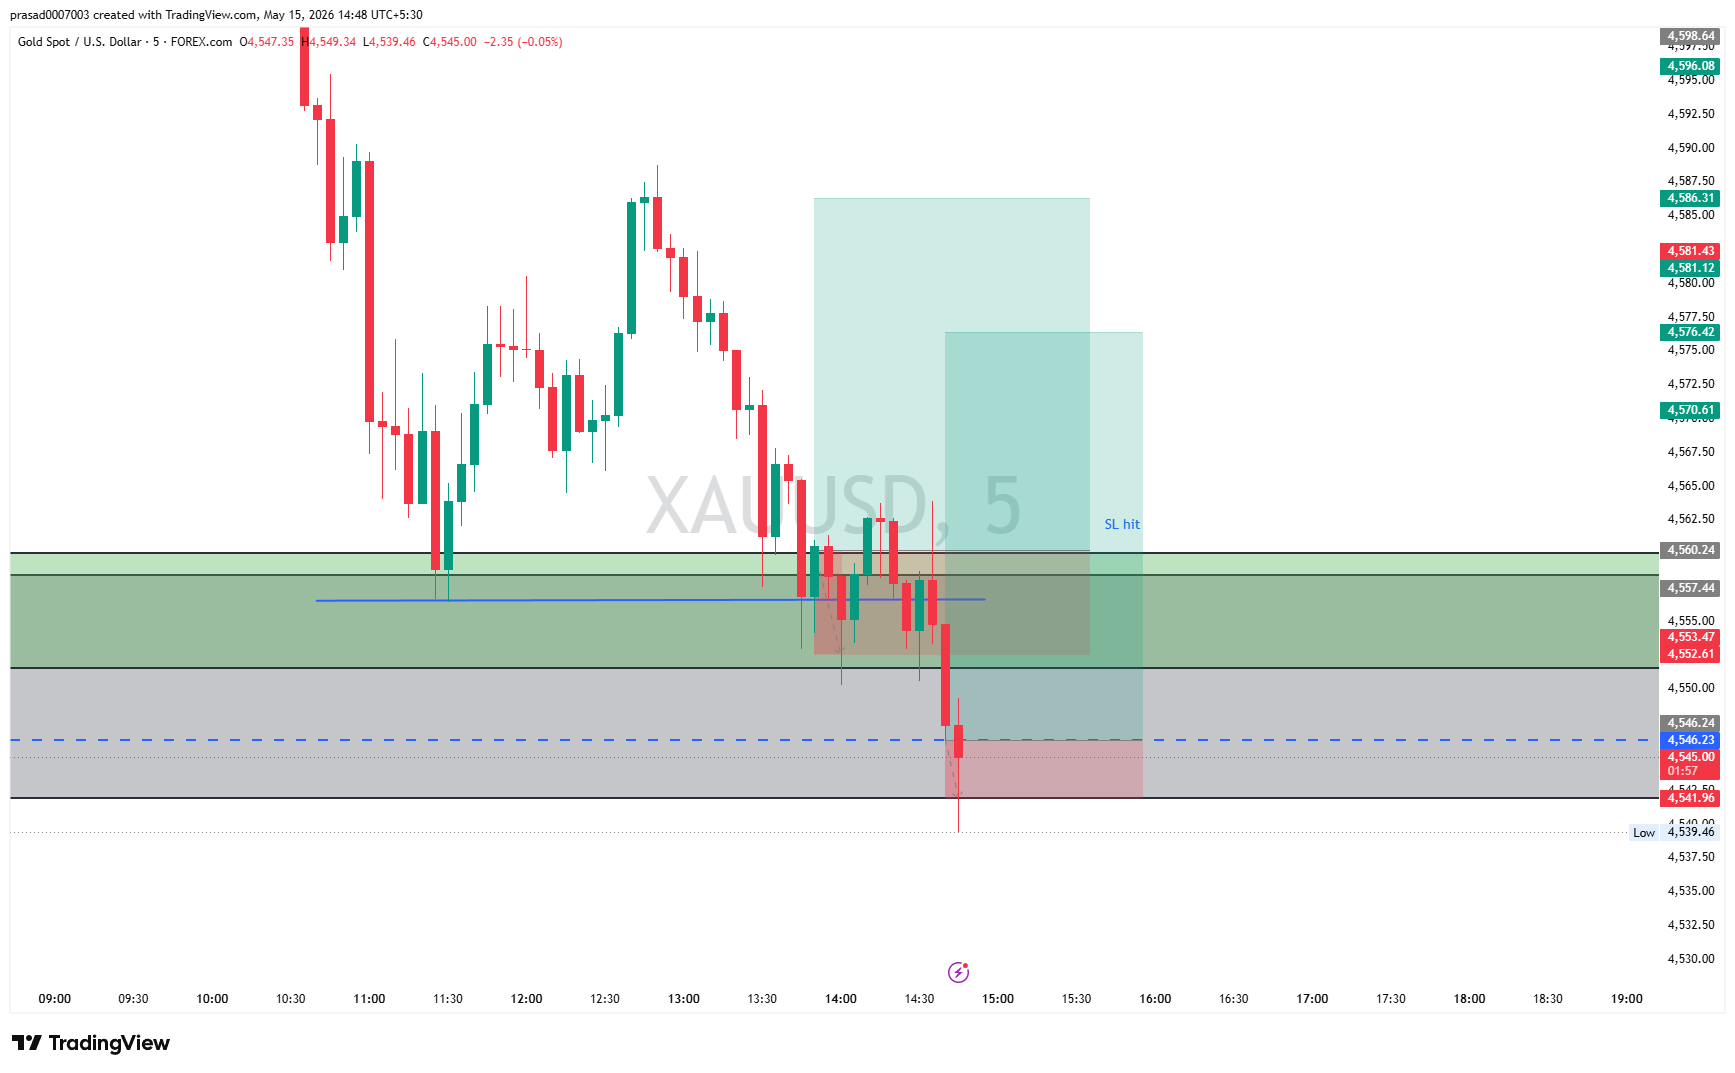
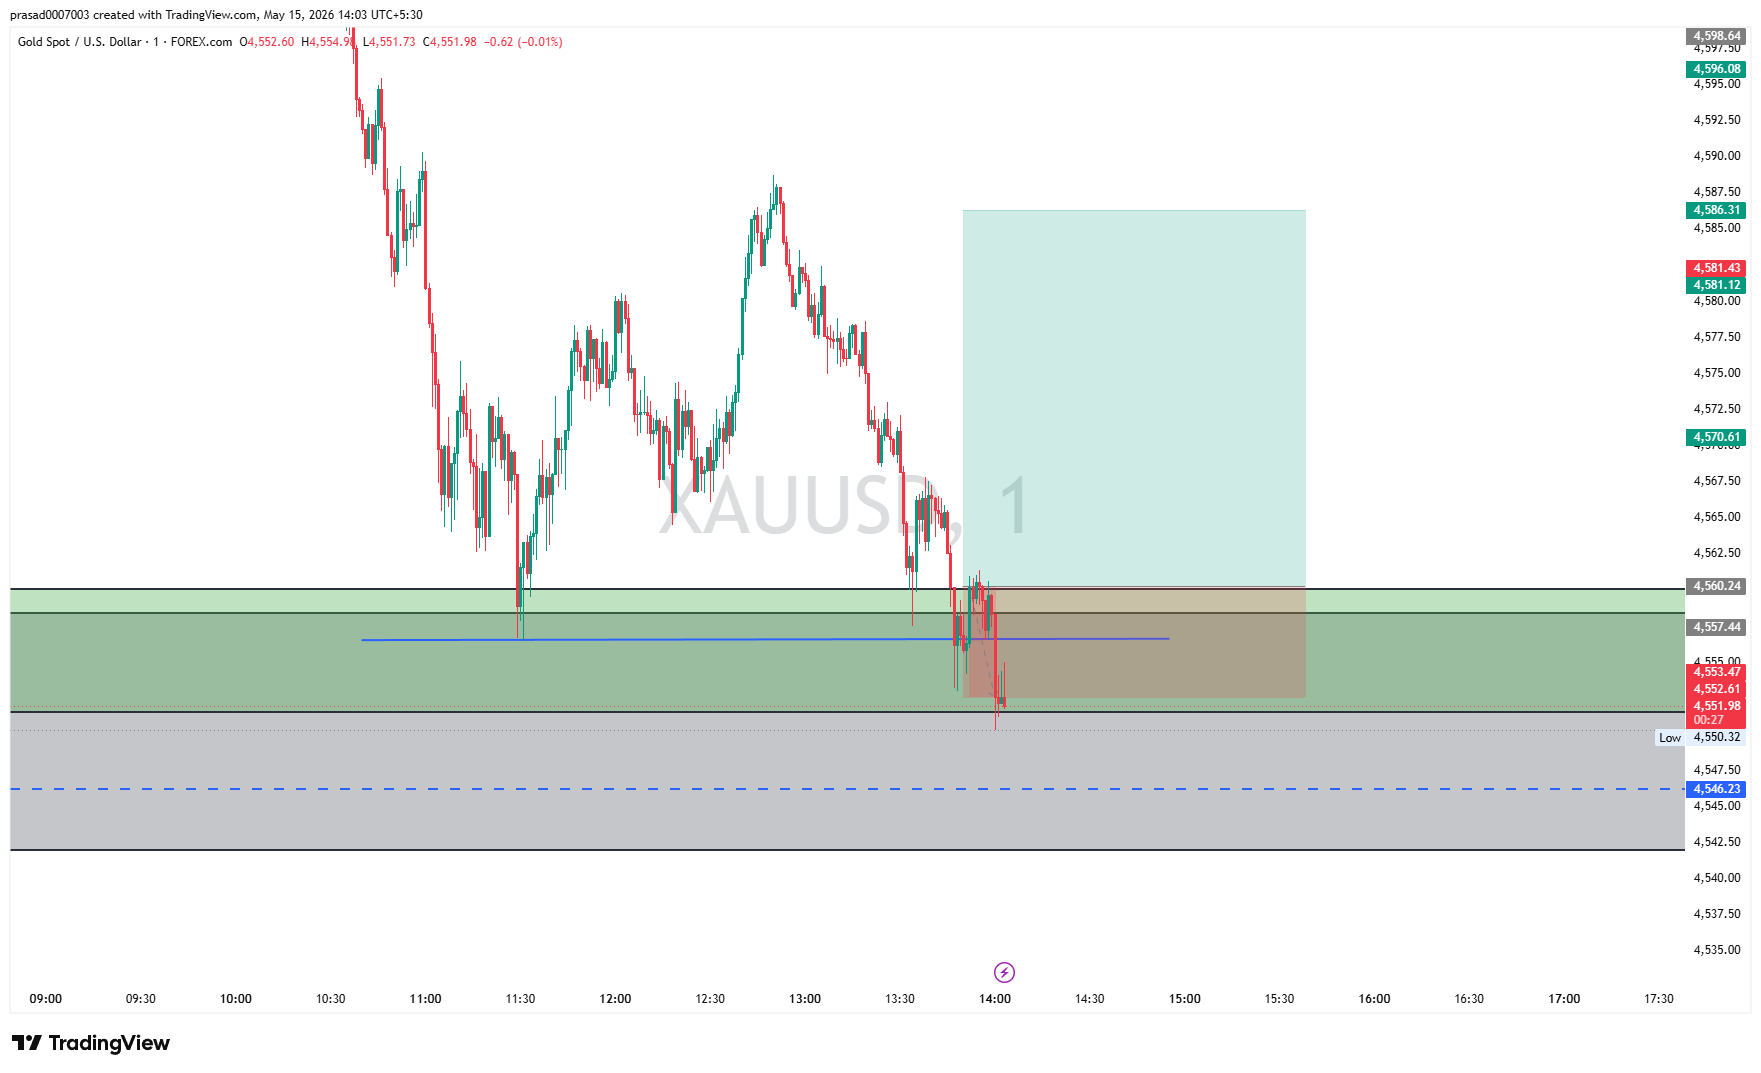
fix: restore trade images

diff --git a/src/components/TradeCard.jsx b/src/components/TradeCard.jsx
@@ -15,11 +15,17 @@ export function normalizePair(pair) {
   return pair.toUpperCase(); // Fallback
 }
 
+function getTradeImages(trade) {
+  if (!trade) return [];
+  const rawList = trade.images?.length ? trade.images : (trade.image ? [trade.image] : []);
+  return rawList.map((_, i) => `/trades/trade-${trade.id.replace("trd-", "")}-${i + 1}.png`);
+}
+
 function TradeCard({ trade, onSelect }) {
   const isWin = trade.pnl > 0;
   const pnlColor = isWin ? "text-[#00a572]" : trade.pnl < 0 ? "text-[#ff516a]" : "text-white/60";
 
-  const imageList = trade.images?.length ? trade.images : (trade.image ? [trade.image] : []);
+  const imageList = getTradeImages(trade);
   const hasImages = imageList.length > 0;
   const isMulti = imageList.length > 1;
   const [activeImageIndex, setActiveImageIndex] = useState(0);

diff --git a/src/components/TradeDetail.jsx b/src/components/TradeDetail.jsx
@@ -10,7 +10,8 @@ function TradeDetail({ trade, trades, onClose, onSelectTrade }) {
   const [zoom, setZoom] = useState(1);
   const [imageIndex, setImageIndex] = useState(0);
 
-  const images = trade.images?.length ? trade.images : (trade.image ? [trade.image] : []);
+  const rawList = trade.images?.length ? trade.images : (trade.image ? [trade.image] : []);
+  const images = rawList.map((_, i) => `/trades/trade-${trade.id.replace("trd-", "")}-${i + 1}.png`);
   const isMulti = images.length > 1;
 
   // Find index relative to chronologically sorted input `trades` array
